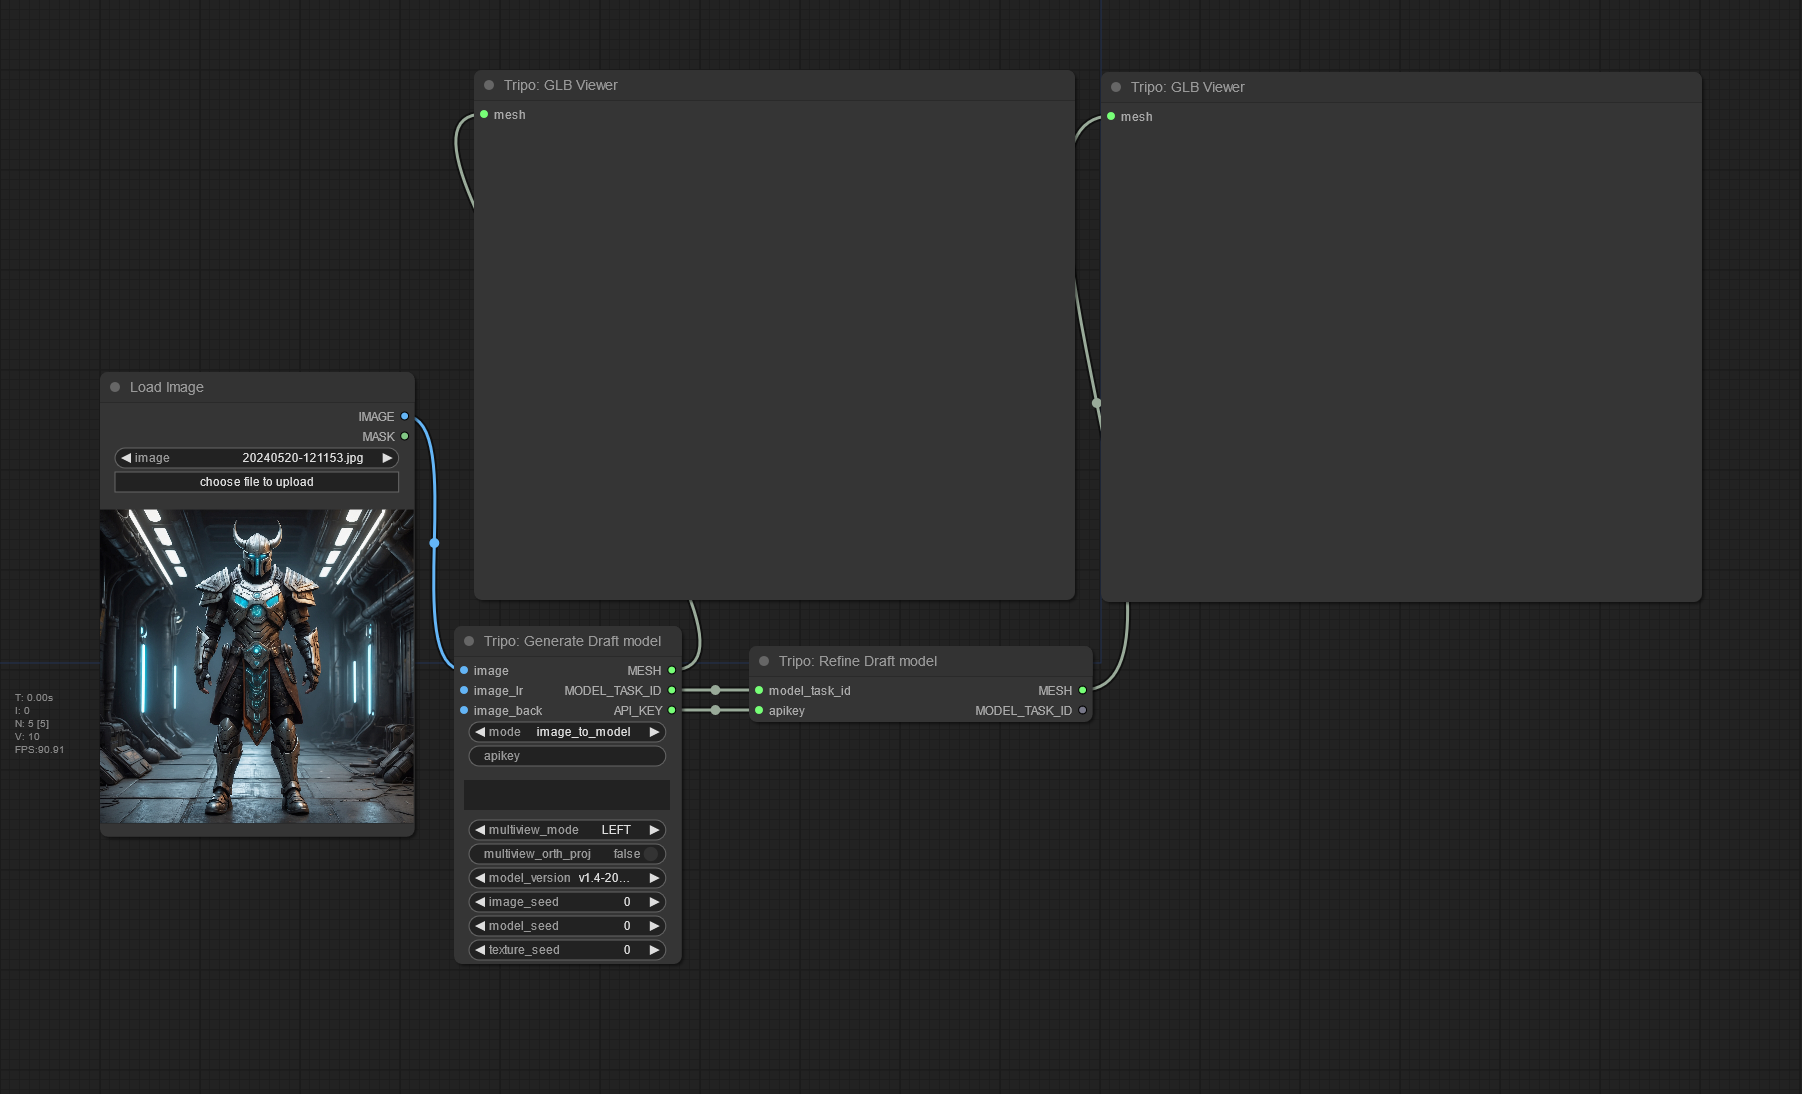
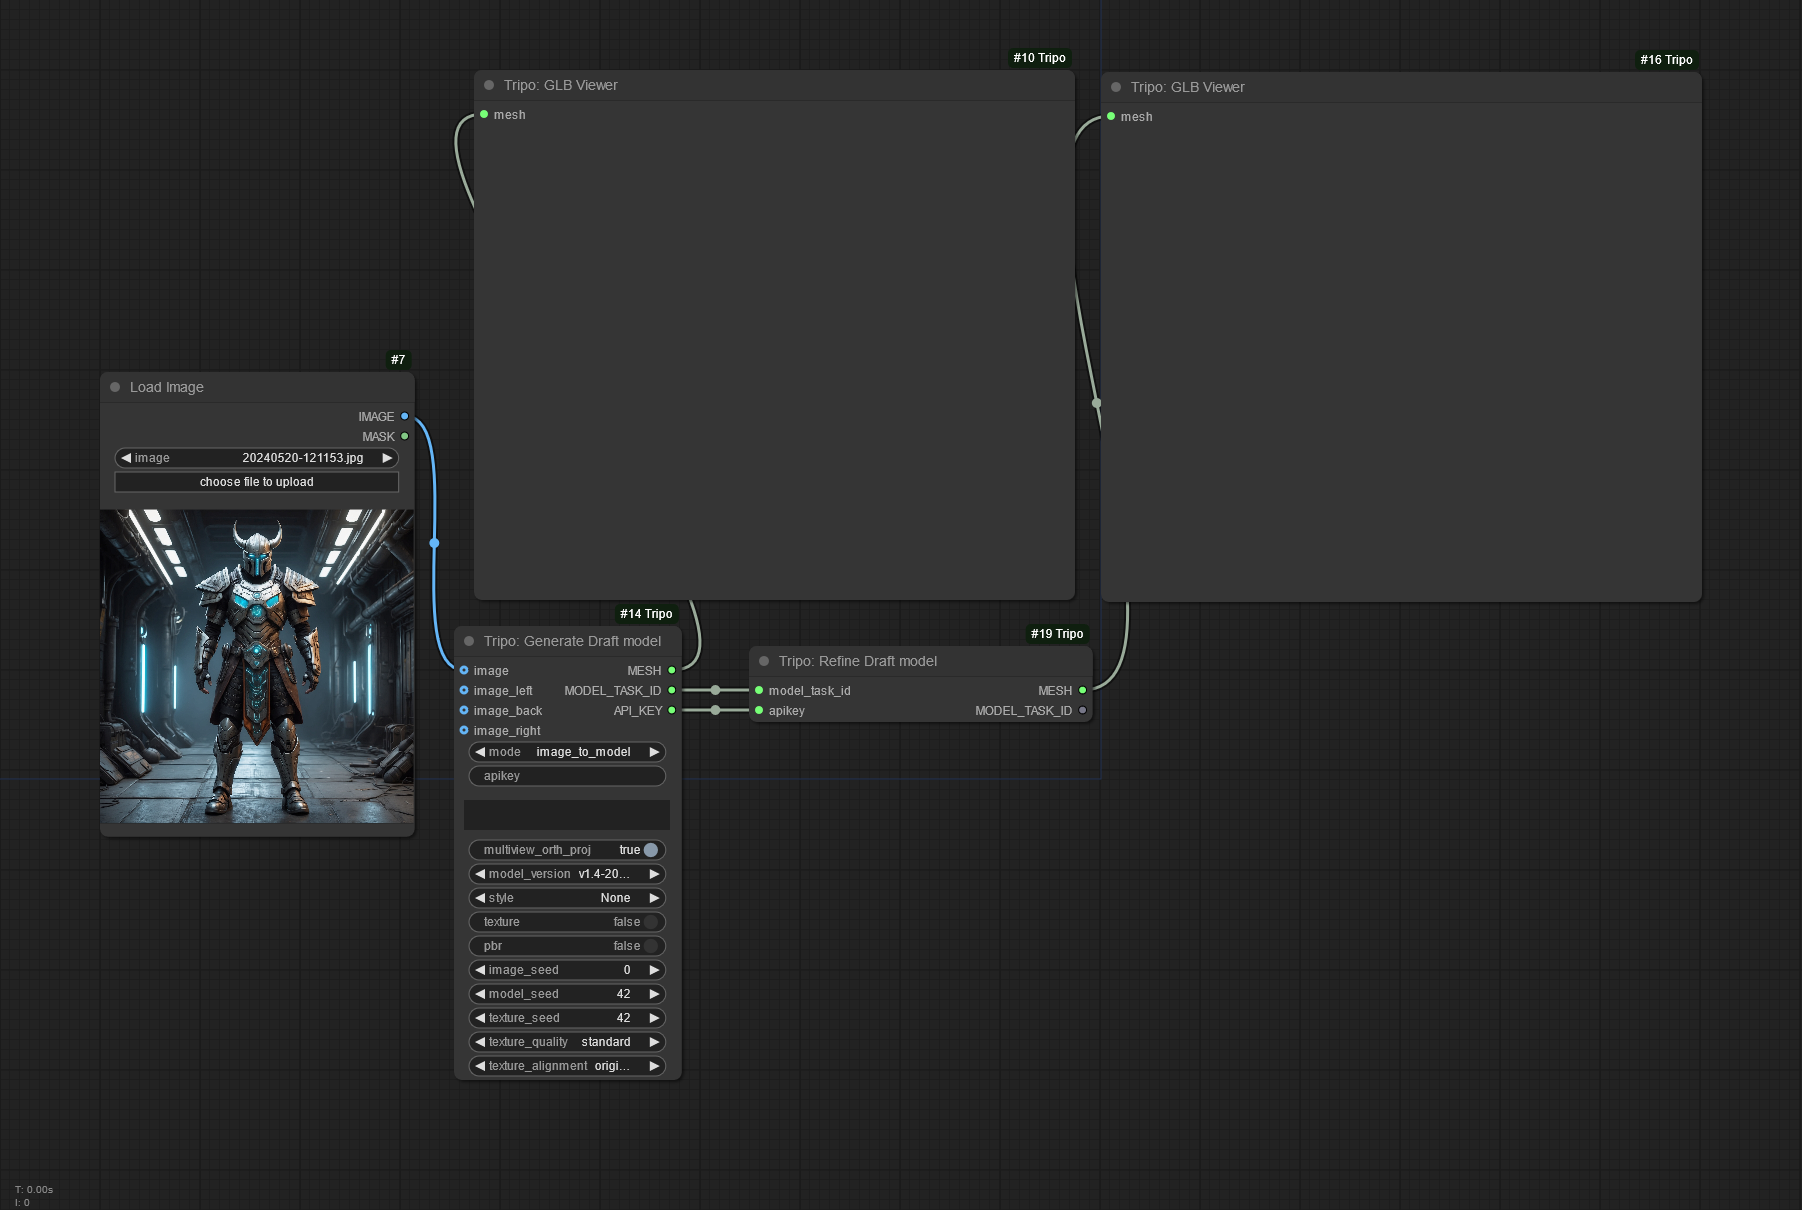
fix some bugs

diff --git a/__init__.py b/__init__.py
@@ -2,7 +2,7 @@ import sys
 from os import path
 import os
 import json
-from folder_paths import get_output_directory
+from folder_paths import get_input_directory
 sys.path.insert(0, path.dirname(__file__))
 
 from api.system import TripoAPI, save_tensor
@@ -59,9 +59,9 @@ class TripoAPIDraft:
                 "image_right": ("IMAGE",),
                 "multiview_orth_proj": ("BOOLEAN", {"default": False}),
                 "model_version": (["v1.4-20240625", "v2.0-20240919"], {"default": "v2.0-20240919"}),
-                "style": (["person:person2cartoon", "animal:venom", "object:clay", "object:steampunk"], {"default": None}),
-                "texture": {"BOOLEAN", {"default": True}},
-                "pbr": {"BOOLEAN", {"default": True}},
+                "style": (["person:person2cartoon", "animal:venom", "object:clay", "object:steampunk", "None"], {"default": "None"}),
+                "texture": ("BOOLEAN", {"default": True}),
+                "pbr": ("BOOLEAN", {"default": True}),
                 "image_seed": ("INT", {"default": 42}),
                 "model_seed": ("INT", {"default": 42}),
                 "texture_seed": ("INT", {"default": 42}),
@@ -92,7 +92,7 @@ class TripoAPIDraft:
         elif mode == 'image_to_model':
             if image is None:
                 raise RuntimeError("Image is required")
-            image_name = save_tensor(image, os.path.join(get_output_directory(), "image"))
+            image_name = save_tensor(image, os.path.join(get_input_directory(), "image"))
             result = api.image_to_3d(image_name, model_version, style, texture, pbr, model_seed, texture_seed, texture_quality, texture_alignment)
         elif mode == 'multiview_to_model':
             if image is None:
@@ -111,10 +111,10 @@ class TripoAPIDraft:
                 if image_back is None:
                     raise RuntimeError("back image for multiview 1.4 is required")
             image_names = []
-            for image_name in ["image", "image_left", "image_right", "image_back"]:
+            for image_name in ["image", "image_left", "image_back", "image_right"]:
                 image_ = locals()[image_name]
                 if image_ is not None:
-                    image_filename = save_tensor(image, os.path.join(get_output_directory(), image_name))
+                    image_filename = save_tensor(image_, os.path.join(get_input_directory(), image_name))
                     image_names.append(image_filename)
                 else:
                     image_names.append(None)
@@ -132,8 +132,8 @@ class TripoTextureModel:
                 "model_task_id": ("MODEL_TASK_ID",),
             },
             "optional": {
-                "texture": {"BOOLEAN", {"default": True}},
-                "pbr": {"BOOLEAN", {"default": True}},
+                "texture": ("BOOLEAN", {"default": True}),
+                "pbr": ("BOOLEAN", {"default": True}),
                 "texture_seed": ("INT", {"default": 42}),
                 "texture_quality": (["standard", "detailed"], {"default": "standard"}),
                 "texture_alignment": (["original_image", "geometry"], {"default": "original_image"}),
@@ -282,6 +282,7 @@ class TripoConvertNode:
 
 NODE_CLASS_MAPPINGS = {
     "TripoAPIDraft": TripoAPIDraft,
+    "TripoTextureModel": TripoTextureModel,
     "TripoRefineModel": TripoRefineModel,
     "TripoAnimateRigNode": TripoAnimateRigNode,
     "TripoAnimateRetargetNode": TripoAnimateRetargetNode,
@@ -290,9 +291,10 @@ NODE_CLASS_MAPPINGS = {
 }
 
 NODE_DISPLAY_NAME_MAPPINGS = {
-    "TripoAPIDraft": "Tripo: Generate Draft model",
+    "TripoAPIDraft": "Tripo: Generate model",
+    "TripoTextureModel": "Tripo: Texture model",
     "TripoRefineModel": "Tripo: Refine Draft model",
-    "TripoAnimateRigNode": "Tripo: Rig Draft model",
+    "TripoAnimateRigNode": "Tripo: Rig model",
     "TripoAnimateRetargetNode": "Tripo: Retarget rigged model",
     "TripoConvertNode": "Tripo: Convert model",
     "TripoGLBViewer": "Tripo: GLB Viewer",

diff --git a/api/system.py b/api/system.py
@@ -101,6 +101,8 @@ class TripoAPI:
             _param = locals()[param_name]
             if _param is not None:
                 param[param_name] = _param
+        if "style" in param and param["style"] == 'None':
+            del param["style"]
         response = self._submit_task(
             "image_to_model",
             param,
@@ -117,7 +119,7 @@ class TripoAPI:
                     return image_token
                 image_tokens.append(image_token)
             else:
-                image_tokens.append("")
+                image_tokens.append(None)
         if model_version is not None and model_version.startswith("v2"):
             param = {"files":[]}
             for image_token in image_tokens:
@@ -213,12 +215,6 @@ class TripoAPI:
         print(f"Submitting task: {task_type}")
         if 'prompt' in task_payload:
             print(f"Task prompt: {task_payload['prompt']}")
-        if 'file' in task_payload:
-            print(f"Task file type: {task_payload['file']['type']}")
-        if 'files' in task_payload:
-            print(task_payload)
-            print(f"Task files type: {task_payload['files'][0]['type']},\n"  # Assume all views are of the same type
-                  f"Task mode: {task_payload['mode']}")
         if 'draft_model_task_id' in task_payload:
             print(f"Task draft model task ID: {task_payload['draft_model_task_id']}")
         if 'original_model_task_id' in task_payload and 'animation' not in task_payload:
@@ -284,7 +280,7 @@ class TripoAPI:
             }
 
     def _download_model(self, model_url, task_id):
-        for name in ["model", "pbr_model"]:
+        for name in ["pbr_model", "model", "base_model"]:
             if name in model_url:
                 model_url = model_url[name]
                 break

diff --git a/README.md b/README.md
@@ -2,12 +2,13 @@
 This extension integrates Tripo into ComfyUI, allowing users to generate 3D models from text prompts or images directly within the ComfyUI interface.
 
 ## ChangeLog
+- 20241111: adapt for new api
 - 20241014: support convert
 - 20240913: support model_version v2.0-20240919
 
 ## Features
-- Generate 3D models from text prompts using the Tripo API
-- Generate 3D models from images using the Tripo API
+- Generate 3D models from text prompts
+- Generate 3D models from images
 - View generated 3D models directly in ComfyUI using the TripoGLB Viewer node
 
 ## Installation
@@ -47,23 +48,27 @@ Load the png sceenshot in comyfui by dragging or loading manually.
 ### Text to Mesh
 ![img](workflows/text_to_model.png)
 
-This node allows you to generate a 3D model from a text prompt using the Tripo API.
+This node allows you to generate a 3D model from a text prompt.
 
 ### Image to Mesh
 ![img](workflows/image_to_model.png)
-This node allows you to generate a 3D model from an input image using the Tripo API.
+This node allows you to generate a 3D model from an input image.
 
 ### Multiview Images to Mesh
 ![img](workflows/multiview_to_model.png)
-This node allows you to generate a 3D model from three multiview input images using the Tripo API.
+This node allows you to generate a 3D model from three multiview input images.
+
+### Texture a generated model
+![img](workflows/texture_model.png)
+This node allows you to generate texture and pbr for a generated 3D model.
 
 ### Refine a draft Mesh
 ![img](workflows/refine_model.png)
-This node allows you to refine a 3D model from a draft model using the Tripo API.
+This node allows you to refine a 3D model from a draft model.
 
 ### Animation
 ![img](workflows/retarget.png)
-This node allows you to generate a 3D model with skeleton and animation using the Tripo API.
+This node allows you to generate a 3D model with skeleton and animation.
 
 
 ### Download Model
